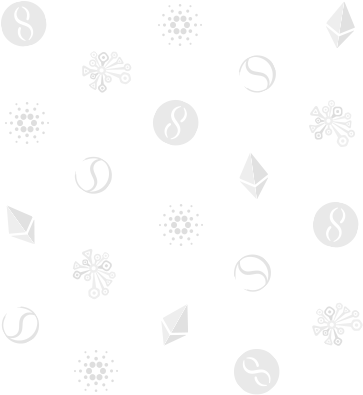
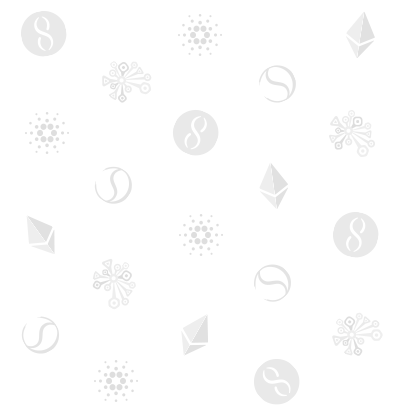
cleaned logs, changed background image

diff --git a/src/components/SnetLogo/index.tsx b/src/components/SnetLogo/index.tsx
@@ -13,7 +13,6 @@ interface Props {
 }
 
 const SnetLogo = ({ variant, additionalClassName = "" }: Props): React.ReactElement => {
-    console.log(additionalClassName);
 
     return (
         <React.Fragment>

diff --git a/src/hooks/ResizeHook/index.ts b/src/hooks/ResizeHook/index.ts
@@ -22,8 +22,6 @@ export const useResize = () => {
         };
     });
 
-    console.log(windowWidth);
-
     return {
         windowWidth,
     };
